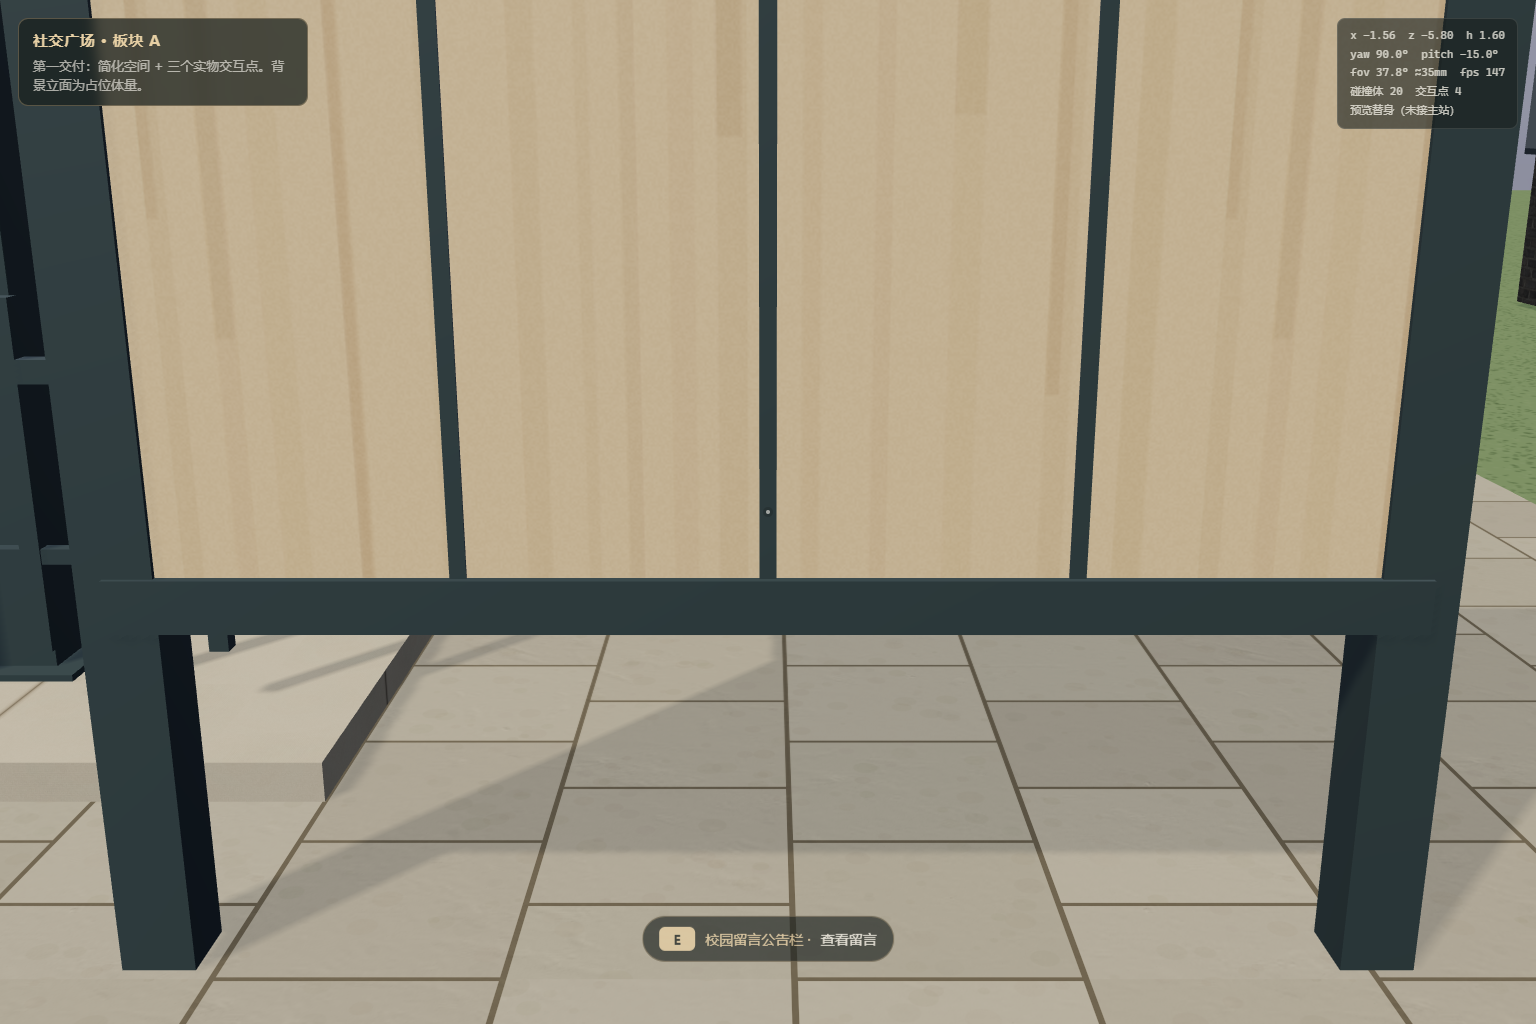
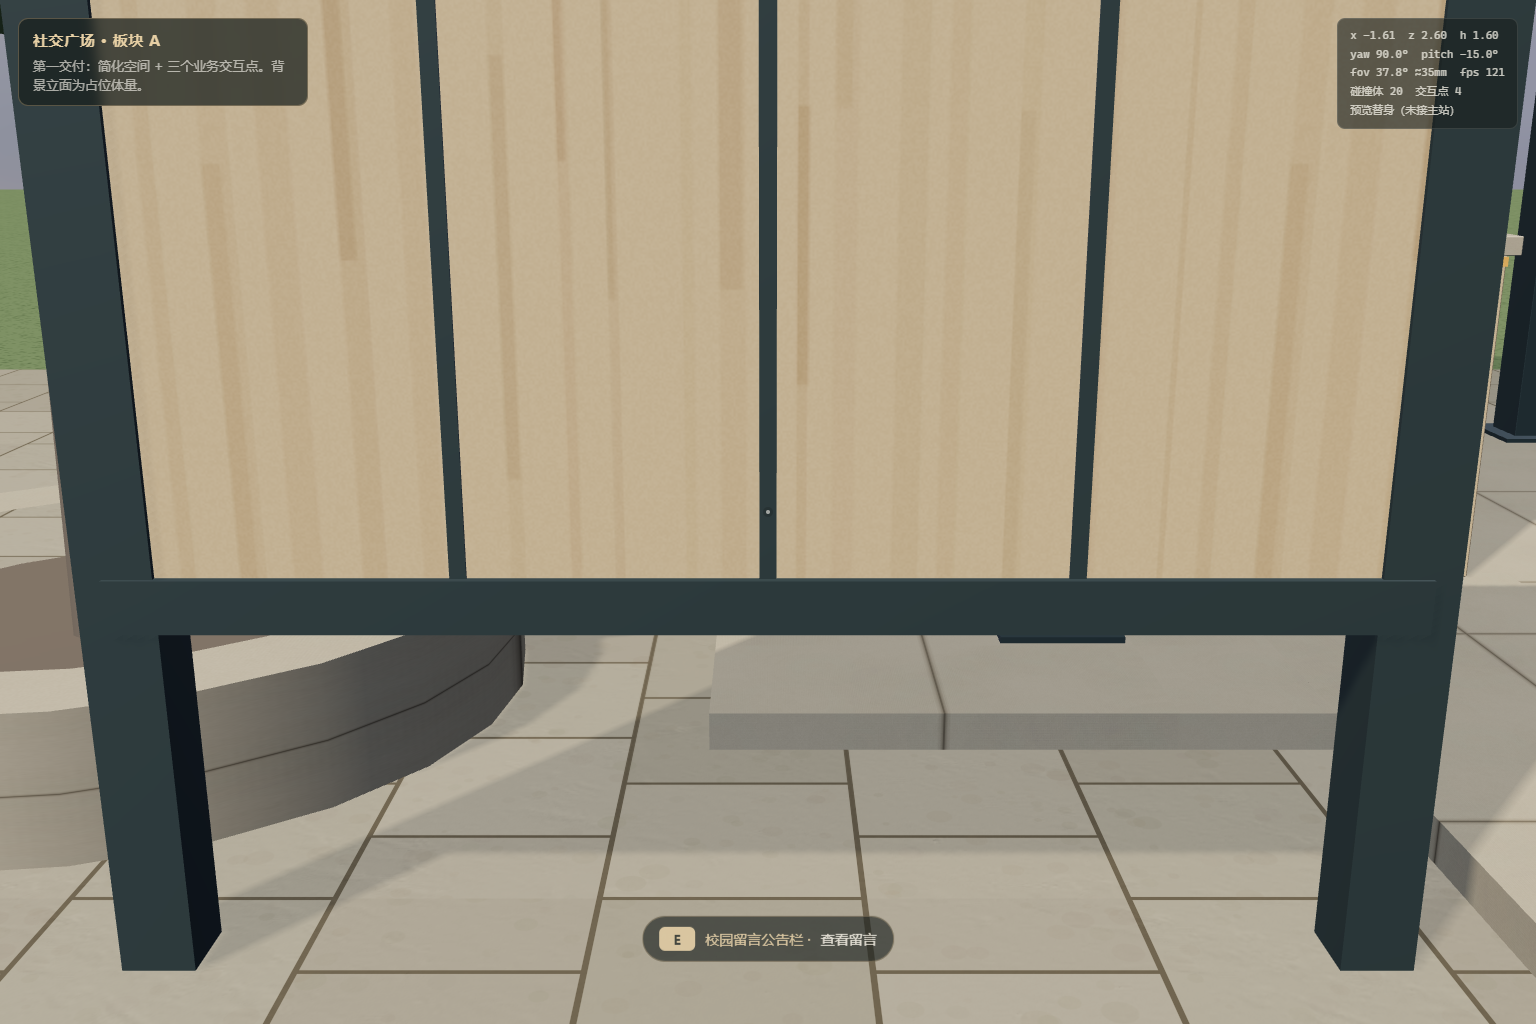
test(social): validate table lifecycle and PR43 bake rejection with runtime evidence

diff --git a/js/features/social/preview.html b/js/features/social/preview.html
@@ -17,7 +17,7 @@
 <div class="social-ui" id="ui" hidden>
   <div class="social-ui__badge">
     <b>社交广场 · 板块 A</b>
-    <span>第一交付：简化空间 + 三个实物交互点。背景立面为占位体量。</span>
+    <span>第一交付：简化空间 + 三个业务交互点。背景立面为占位体量。</span>
   </div>
 
   <div class="social-ui__crosshair"></div>
@@ -291,6 +291,11 @@ function findNearest() {
 const LIVE = typeof window.WG_Community !== 'undefined' && typeof window.WG_Community.open === 'function';
 
 const PANEL_COPY = {
+  'social.challenge': {
+    title: '双人竞技桌',
+    sub: 'community / arena · 预览说明，尚未接公共宿主',
+    body: () => `<p>竞技桌对应主站已有的好友竞技页。</p><p>调用 <code>openFeature('community', { tab: 'arena', from: 'social.challenge' })</code>。</p><p>邀请、接受、准备与答题由真实社区模块处理；此预览不重新实现账号或比赛。</p>`,
+  },
   'social.desk': {
     title: '学习搭子',
     sub: '服务台 → 真实搭子列表',

diff --git a/js/features/social/social-district.js b/js/features/social/social-district.js
@@ -18,7 +18,7 @@ export const SOCIAL_LAYOUT = {
   path: { width: 4.5, branchWidth: 3.0 },
   pavilion: { cx: -7.2, cz: -1.0, width: 3.6, length: 7.0, height: 3.2, column: 0.22 },
   desk: { x: -7.2, z: 0.65, w: 1.8, h: 1.05, d: 0.7 },
-  board: { x: -4.5, z: -5.8, width: 2.4, height: 2.2 },
+  board: { x: -4.2, z: 2.6, width: 2.4, height: 2.2 },
   fountain: { x: 5.6, z: -5.0, diameter: 4.0, rim: 0.4, wall: 0.25 },
   bench: { seat: 0.45, length: 1.6, depth: 0.42 },
   facade: { z: -12.6, width: 30, height: 8, thickness: 0.5 },

diff --git a/docs/team/social-three-points-handoff.md b/docs/team/social-three-points-handoff.md
@@ -5,7 +5,7 @@
 | 实物/ID | 调用 | 坐标与可站位置 |
 |---|---|---|
 | 亭廊服务台 social.desk | openFeature('community',{tab:'friends',from:'social.desk'}) | 原 x=-7.2 z=.65；东侧 x=-5.4 z=.65 |
-| 留言板 social.board | openFeature('community',{tab:'posts',from:'social.board'}) | 从东侧 x=7.6 z=-.6 移到亭廊北侧 x=-4.5 z=-5.8；东侧 x=-3.4 z=-5.8；碰撞随同移动 |
+| 留言板 social.board | openFeature('community',{tab:'posts',from:'social.board'}) | 从东侧 x=7.6 z=-.6 移到亭廊东侧、服务台邻近 x=-4.2 z=2.6；东侧 x=-3.1 z=2.6；碰撞随同移动 |
 | 双人竞技桌 social.challenge | openFeature('community',{tab:'arena',from:'social.challenge'}) | x=4.2 z=3；站 x=2.85/5.55 z=3；radius=2.2 |
 
 桌面1.70×.80m、顶高.75m、40mm板；坐面高.45m，双侧凳距桌心1.05m。桌/凳实体都有 box 碰撞，西侧站位不侵入4.5m主路。object 为实际桌面。label/prompt 已提供，桌面 E 由现有预览验证；触屏可点击按钮由 D 宿主实现。没有新 renderer、相机、RAF、登录或请求。
@@ -21,3 +21,7 @@ PR43 集成注意：本笔一个 import、board坐标与一次装配调用即可
 待 D：主站广场入口、挂载、真实面板、移动暂停恢复、触屏按钮、返回主站与生命周期；本笔只证明可走到触发和正确业务调用，不宣称公共宿主已集成。同步开局属于第二笔，现有分别开始模式不称同步竞技。
 
 验证：tests/three-points.cjs 使用真实 W 行走至三个点并按 E，记录调用为 friends/posts/arena；竞技桌碰撞停在 x=3.0，未直接调用 action。浏览器 Chromium156、1536×1024 DPR1；无 pageerror。实际截图与原始 JSON 见 social-three-points-evidence/。npm run check 通过。本笔未把说明弹层计为真实社区业务；双账号主站验收将在第二笔一同记录。
+
+补充验证 PR43 兼容：测试在 HTTP 层读取 433ab8c 完整视觉树，仅叠加本笔 import/坐标/装配调用及新桌模块，没有修改 PR43 分支。三点 W→E 通过；实际 ready.bakedAO 为 {ok:false,reason:scene-mismatch}，证明旧烘焙确实被拒绝。三轮全网格渲染/两次卸载，281/42→135/26（geometries/textures）每轮稳定。兼容截图单独在证据 pr43/ 子目录，不冒充 main 已含 PR43。preview.html 只补竞技点说明文案，没有加业务、请求或宿主逻辑。
+
+main版新增桌凳资源验证：三轮112/31→48/16（geometries/textures）稳定，无新外部资源。SOCIAL_VISUAL_REF=433ab8c可复跑PR43覆盖测试；SOCIAL_CDN_CACHE指向three-r160-review.module.js与RGBELoader-r160-review.js缓存目录，SOCIAL_BROWSER_PATH指定Chromium，NODE_PATH提供外部Playwright；未修改产品依赖。
